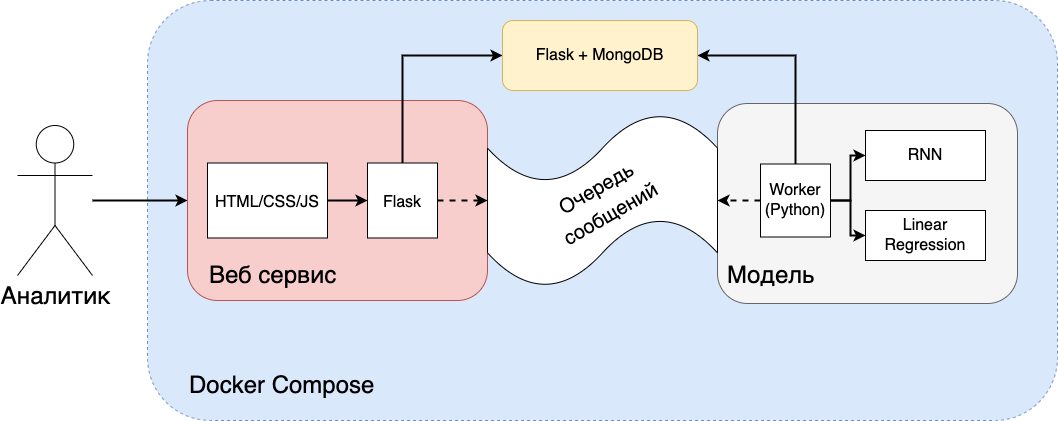
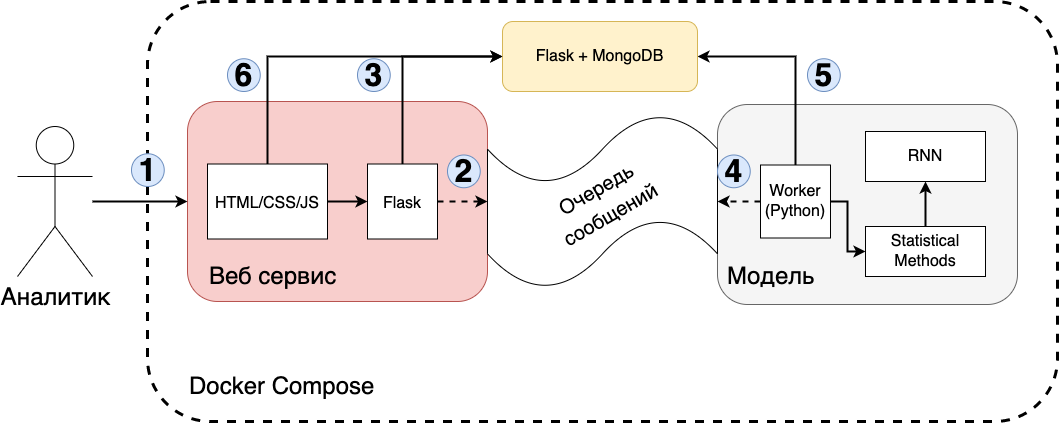
readme add

diff --git a/README.md b/README.md
@@ -11,7 +11,11 @@
   - [Структура репозитория](#структура-репозитория)
     - [readme-assets](#readme-assets)
   - [Архитектура](#архитектура)
+  - [Паттерны и Референсные Архитектуры](#паттерны-и-референсные-архитектуры)
+    - [Референсные Архитектуры](#референсные-архитектуры)
   - [Описание модели машинного обучения](#описание-модели-машинного-обучения)
+    - [Статистическая обработка](#статистическая-обработка)
+    - [Рекуррентная Нейронная Сеть](#рекуррентная-нейронная-сеть)
   - [Результаты тестов модели](#результаты-тестов-модели)
   - [Контакты](#контакты)
 
@@ -27,12 +31,52 @@
 
 ## Архитектура
 
+На диаграмме ниже можно посмотреть на верхнеуровневую архитектуру нашего сервиса. Давайте пройдем по шагам в соответствии с нумерацией диаграммы:
+
 ![Архитектура](readme-assets/Архитектура.png)
 
+- **Шаг 1**. Пользователь (предположительно аналитик или внешний стейнхолдер) обращается в наше веб приложение, которое было развернуто на виртуальной машине с ипользованием **Docker Commpose**. Пользователь взаимодействует с веб интерфейсом на HTML/CSS/JS с применением Bootstrap.
+- **Шаг 2**. Если пользователь хочет запустить модель со своими данными, то сервис **создает новый объект со статусом "initiated" (инициализирован) в базе данных(MongoDB) через REST запрос** к этой базе и **записывает его название в локальный кеш** (он будет нужен в шаге 6). Данные пользователя не отправляются.
+- **Шаг 3**. После отправления данных этот же сервис **передает полученные данные в RabbitMQ**.
+- **Шаг 4**. Обработчик событий (worker) уведомляется о новом запросе в RabbitMQ и **вызывает модель статистического анализа**, которая в свою очередь передает полученные результаты на вход к **рекуррентной нейронной сети (RNN)**. Более того, этот же worker отправляет **REST запрос в базу данных об изменении статуса** объекта на **"in progress"** (в процессе создания)
+- **Шаг 5**. Как только модель вернула данные для графиков, worker **отправляет эти данные в MongoDB через REST запрос**. Помимо этого, статус объекта меняется на **"done"** (закончен).
+- **Шаг 6**. В фоновом режиме веб сервис опрашивает базу данных через REST запрос о статусе элементов, которые были созданы, но не закончены. Если элемент из локального кеша получил статус "done", то тогда он **удаляется из кеша**.
+
+## Паттерны и Референсные Архитектуры
+
+В рамках работы над прототипом были учтены лучшие практики построения подобных решений. В качестве главного архитектурного принципа были выбрана несколько:
+
+- **Обеспечить минимальное время ожидания для пользователя**
+- **Необходимость отделить бизнес логику веб сервиса от ресурсоемких задач Машинного Обучения**
+
+В этой связи мы опираемся на референсные архитектуры ведущих ИТ компаний, а также используем общеприщнанные паттерны, проверенные временем.
+
+### Референсные Архитектуры
+
+В качестве референсных архитектур мы взяли подход IBM в построении решений []()
+  
 ## Описание модели машинного обучения
 
-Мы рассматриваем данные о расходных операциях и отгрузках со склада, оттуда берем общую отгрузку с конкретного склада за месяц. Далее смотрим плановое кол-во постройки Базовых станция за этот месяц. И таким образом получаем для каждого склада для каждого месяца среднее значение обьема для одной базовой станции. Далее усредняем и получаем среднее значение объёма одну базовую станцию для каждого склада. (Тут я только что идею придумал, так что со стороны посмотри). Далее пользователь вводит файл с планом постройки базовых станций. Мы берем и смотрим в какие дни недели на склад активнее доставляли, в какие отправляли, и далее распределяем эту общую отгрузку/загрузку по складу соответственно проценту средней отгрузки/загрузки по дням, ну и раньше даты постройки объекта конечно же
+### Статистическая обработка
+
+В качестве входных параметров используются **данные о базовых станциях**, которые мы обрабатываем данные о **расходных операциях и отгрузках со склада** и генерируем **оптимальную отгрузку/загрузку по складу соответственно проценту средней отгрузки/загрузки по дням**. Итого, этот процесс выглядит следующим образом:
+
+1. Берем общую отгрузку с конкретного склада за месяц.
+2. Смотрим плановое кол-во постройки Базовых станция за этот месяц.
+3. Из п. 1 и 2 получаем для каждого склада для каждого месяца среднее значение обьема для одной базовой станции.
+4. Усредняем и получаем среднее значение объёма одну базовую станцию для каждого склада.
+5. Смотрим в какие дни недели на склад активнее доставляли, в какие отправляли, и далее распределяем эту общую отгрузку/загрузку по складу соответственно проценту средней отгрузки/загрузки по дням (ну и раньше даты постройки объекта , конечно же).
+
+### Рекуррентная Нейронная Сеть
+
+Вторым этапом анализа данных является **рекуррентная нейронная сетьь (RNN)**...
+
+TBD
 
 ## Результаты тестов модели
 
+TBD
+
 ## Контакты
+
+В случае возникновения каких-либо ошибок или вопросов не стесняйтесь создавать Issue в репозитории. Также можете писать в личные сообщения@ilya_2108 (Telegram, VK) или на почту ilya210819993@gmail.com
